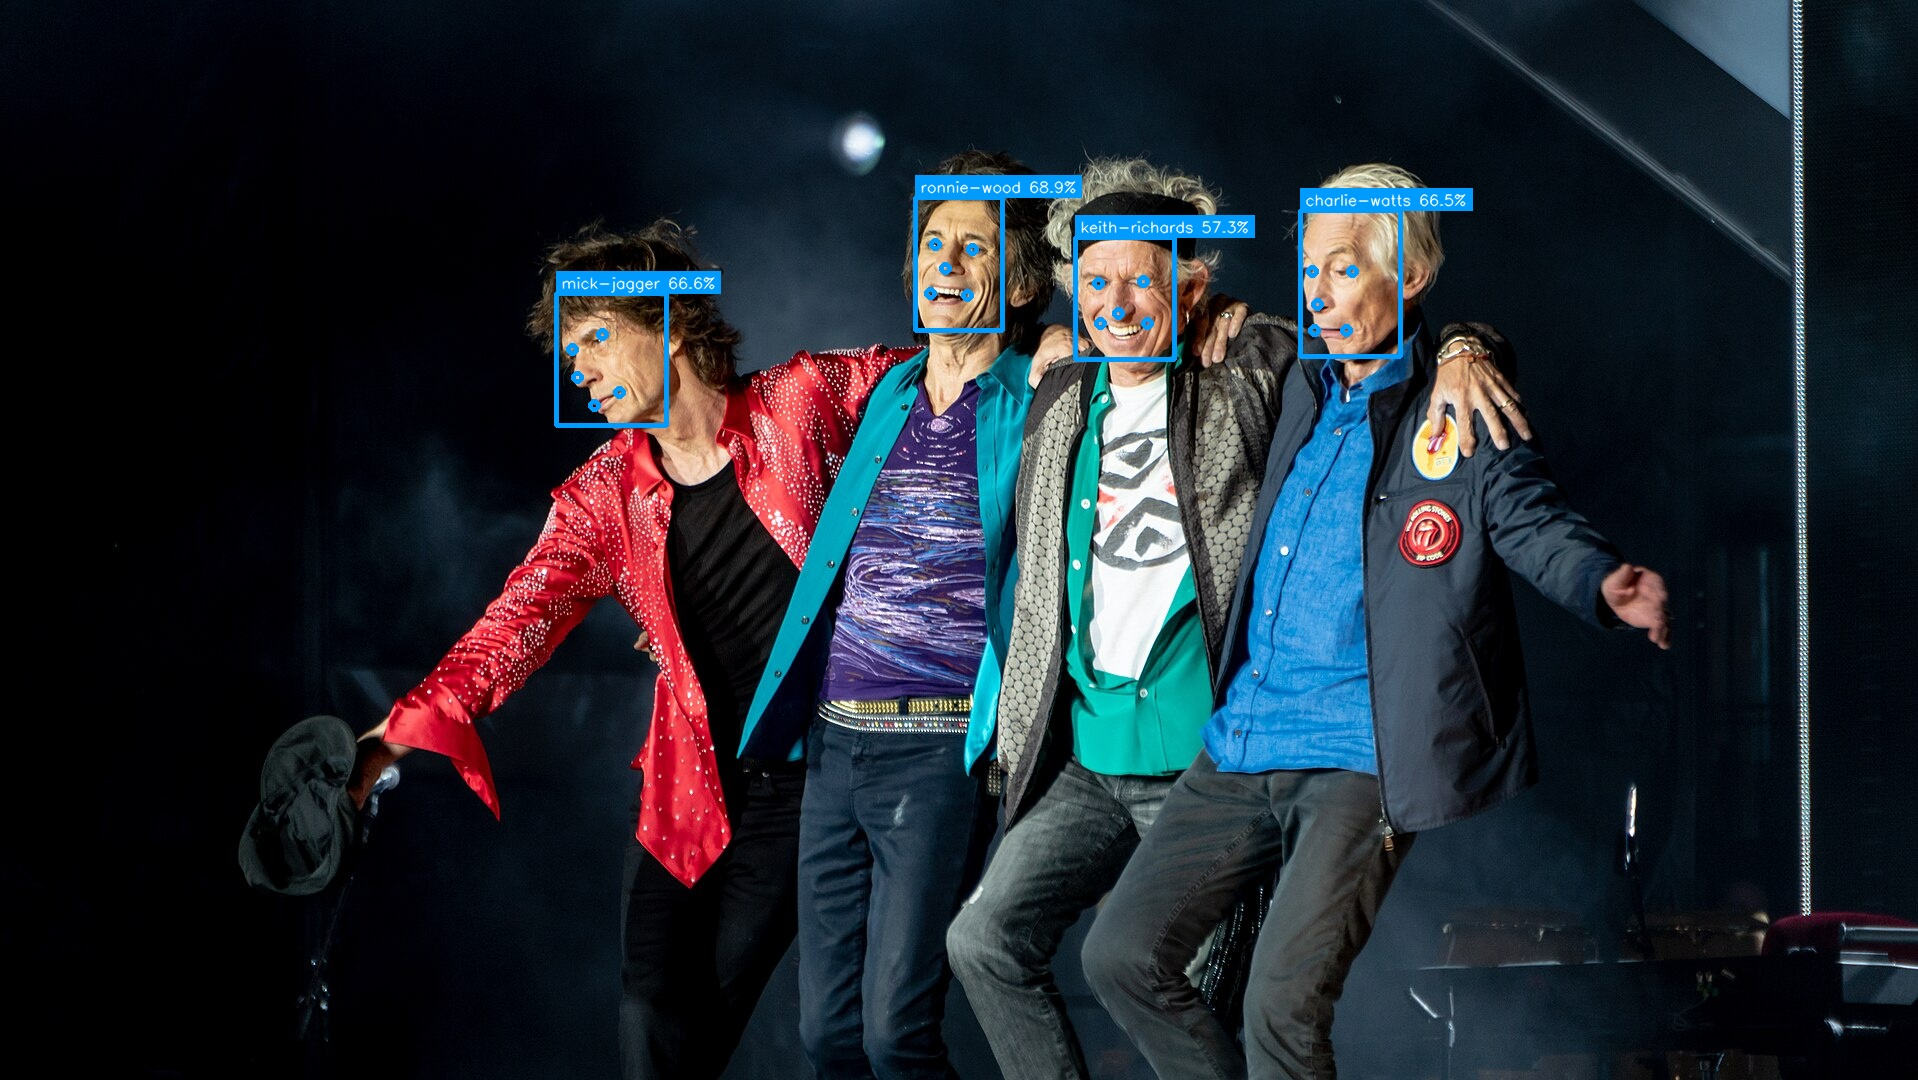
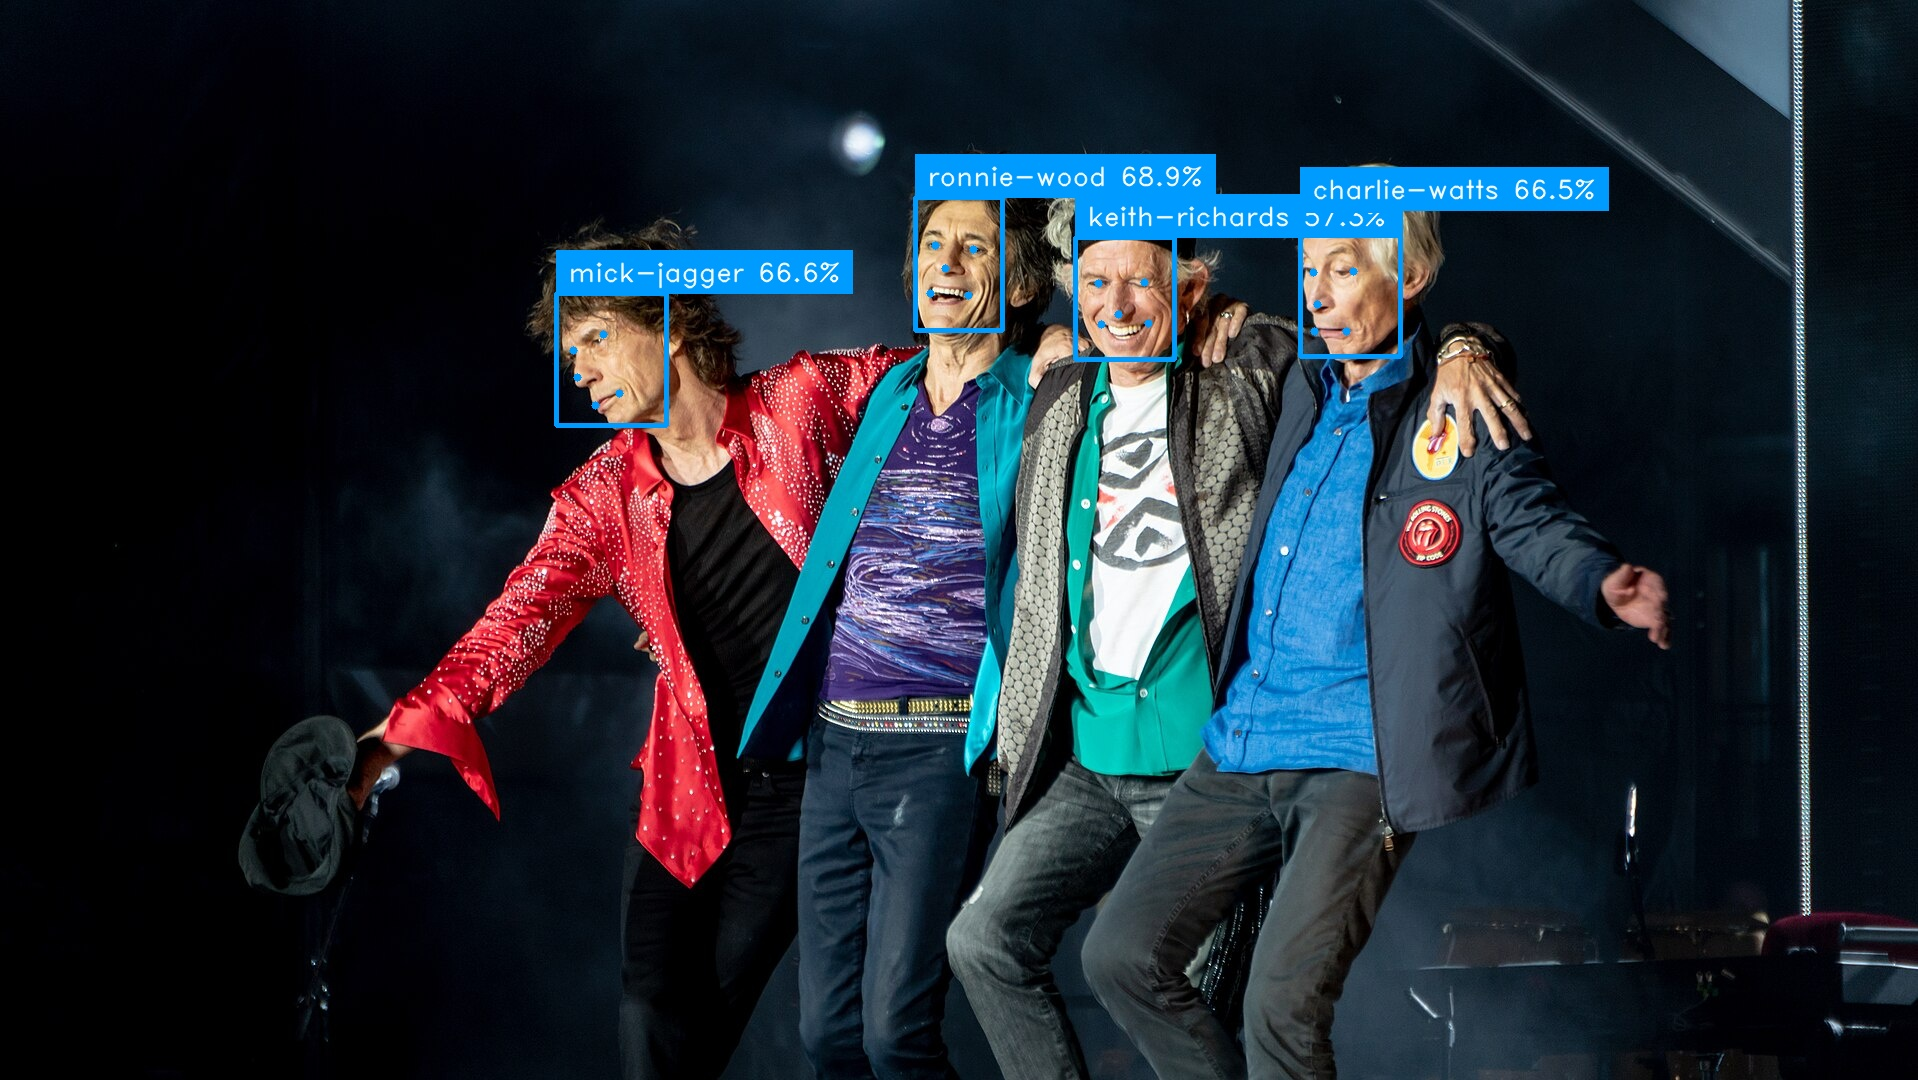
Add license plate recognition example

Changed region(s): [[0.4614, 0.1222, 0.8613, 0.3056], [0.2769, 0.2139, 0.4614, 0.275], [0.5537, 0.275, 0.6152, 0.3056]]

diff --git a/abraia/draw.py b/abraia/draw.py
@@ -79,7 +79,7 @@ def draw_blurred_polygon(img, polygon):
 
 
 def draw_text(img, text, point, background_color = None, text_color = (255, 255, 255), 
-              text_scale = 0.8, padding = 8):
+              text_scale = 0.8, padding = 6):
     text_font, text_thickness = cv2.FONT_HERSHEY_DUPLEX, 1
     w, h = cv2.getTextSize(text, text_font, text_scale, text_thickness)[0]
     width, height = w + 2 * padding, h + 2 * padding
@@ -102,12 +102,18 @@ def draw_overlay(img, overlay, rect, opacity = 1):
     return img
 
 
+def calculate_optimal_thickness(img_size):
+    return 2 if min(img_size) < 1080 else 4
+
+
 def calculate_optimal_text_scale(img_size):
-    return min(img_size) * 1e-3
+    return min(img_size) * 0.0008
 
 
 def render_results(img, results):
-    thickness = 2 if min(img.shape[:2]) < 1080 else 4
+    thickness = calculate_optimal_thickness(img.shape[:2])
+    text_scale = calculate_optimal_text_scale(img.shape[:2])
+    print(text_scale)
     for result in results:
         label = result.get('label')
         score = result.get('confidence')
@@ -123,5 +129,5 @@ def render_results(img, results):
         if (label):
             text = f"{label} {round(100 * score, 1)}%" if score else label
             point = result.get('box', [0, 0, 0, 0])[:2]
-            draw_text(img, text, point, background_color=color)
+            draw_text(img, text, point, background_color=color, text_scale=text_scale, padding=thickness*3)
     return img

diff --git a/abraia/alpr/__init__.py b/abraia/alpr/__init__.py
@@ -68,7 +68,7 @@ class LisencePlateDetector():
             pts = np.array(pts / np.array([w, h])) * np.array([width, height])
             pt1, pt2 = pts.min(axis=0), pts.max(axis=0)
             box = [round(pt1[0]), round(pt1[1]), round(pt2[0] - pt1[0]), round(pt2[1] - pt1[1])]
-            objects.append({'box': box, 'confidence': prob, 'points': pts.astype(np.int32)})
+            objects.append({'box': box, 'confidence': float(prob), 'points': pts.astype(np.int32)})
         results = nms(objects, self.iou_threshold)
         return results
 
@@ -101,11 +101,7 @@ class ALPR():
     def recognize(self, img, results):
         for result in results:
             points = result['points']
-            xmin, ymin = points.min(axis=0)
             img_lp = extract_plate(img, points, self.out_size)
             outputs = self.text_system(img_lp)
-            lines = []
-            for output in outputs[::-1]:
-                lines.append({'text': output['text'], 'score': output['score'], 'point': [int(xmin), int(ymin)]})
-            result['lines'] = lines
+            result['lines'] = outputs
         return results

diff --git a/abraia/alpr/ocr.py b/abraia/alpr/ocr.py
@@ -258,8 +258,7 @@ class TextDetector():
             if rect_width <= 3 or rect_height <= 3:
                 continue
             dt_boxes_new.append(box)
-        dt_boxes = np.array(dt_boxes_new)
-        return dt_boxes
+        return np.array(dt_boxes_new)
 
     def preprocess(self, img):
         img, shape_ratio = resize_img(img, limit_side_len=960)
@@ -368,6 +367,6 @@ class TextSystem():
             rec_res = self.text_recognizer(img_crop_list)
             for box, (text, score) in zip(dt_boxes, rec_res):
                 if score >= self.drop_score:
-                    results.append({'box': box, 'text': text, 'score': float(score)})
+                    results.append({'box': box.astype(np.int32), 'text': text, 'score': float(score)})
         return results 
         

diff --git a/setup.py b/setup.py
@@ -17,7 +17,7 @@ extras_require = {
 
 setup(
     name='abraia',
-    version='0.17.3',
+    version='0.17.4',
     description='Abraia Python SDK',
     long_description=long_description,
     long_description_content_type='text/markdown',

diff --git a/README.md b/README.md
@@ -99,7 +99,7 @@ save_image('images/rolling-stones-identified.jpg', out)
 
 ![rolling stones identified](https://github.com/abraia/abraia-multiple/raw/master/images/rolling-stones-identified.jpg)
 
-### Blur license plates
+### License plates blurring
 
 Automatically blur car license plates in videos with just a few lines of code.
 
@@ -122,6 +122,29 @@ for k, frame in enumerate(video):
 ```
 
 ![car license plate blurred](https://github.com/abraia/abraia-multiple/raw/master/images/blur.jpg)
+
+### License plate recognition
+
+Automatically recognize car license plates in images and video streams.
+
+```python
+from abraia import draw
+from abraia.alpr import ALPR
+
+alpr = ALPR()
+
+img = draw.load_image('images/car.jpg')
+results = alpr.detect(img)
+results = alpr.recognize(img, results)
+results = [result for result in results if len(result['lines'])]
+for result in results:
+    result['label'] = '\n'.join([line.get('text', '') for line in result['lines']])
+    del result['confidence']
+frame = draw.render_results(img, results)
+draw.show_image(img)
+```
+
+![car license plate recognition](https://github.com/abraia/abraia-multiple/raw/master/images/car-plate.jpg)
 
 ## Image analysis toolbox
 
